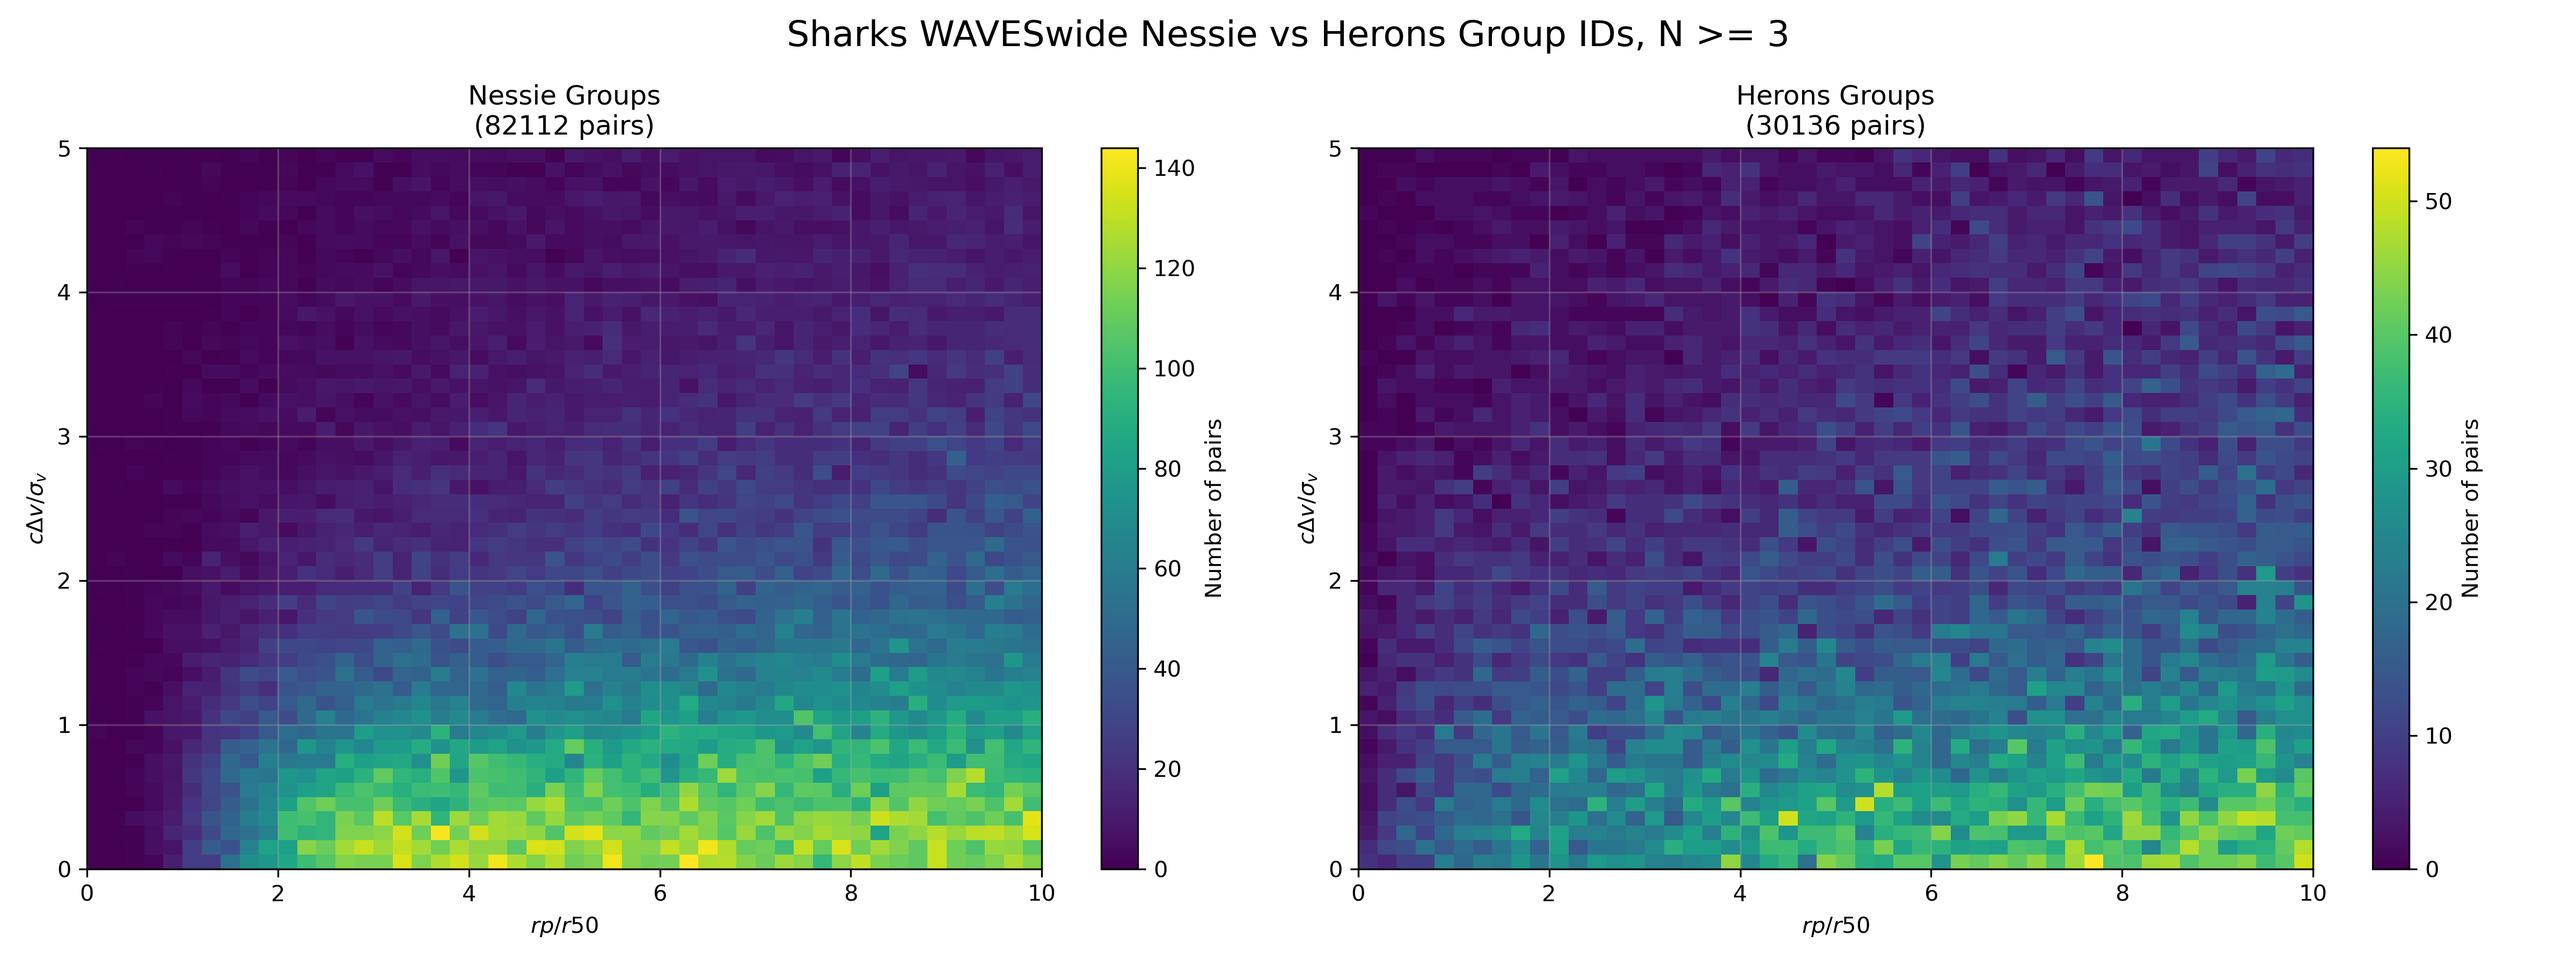
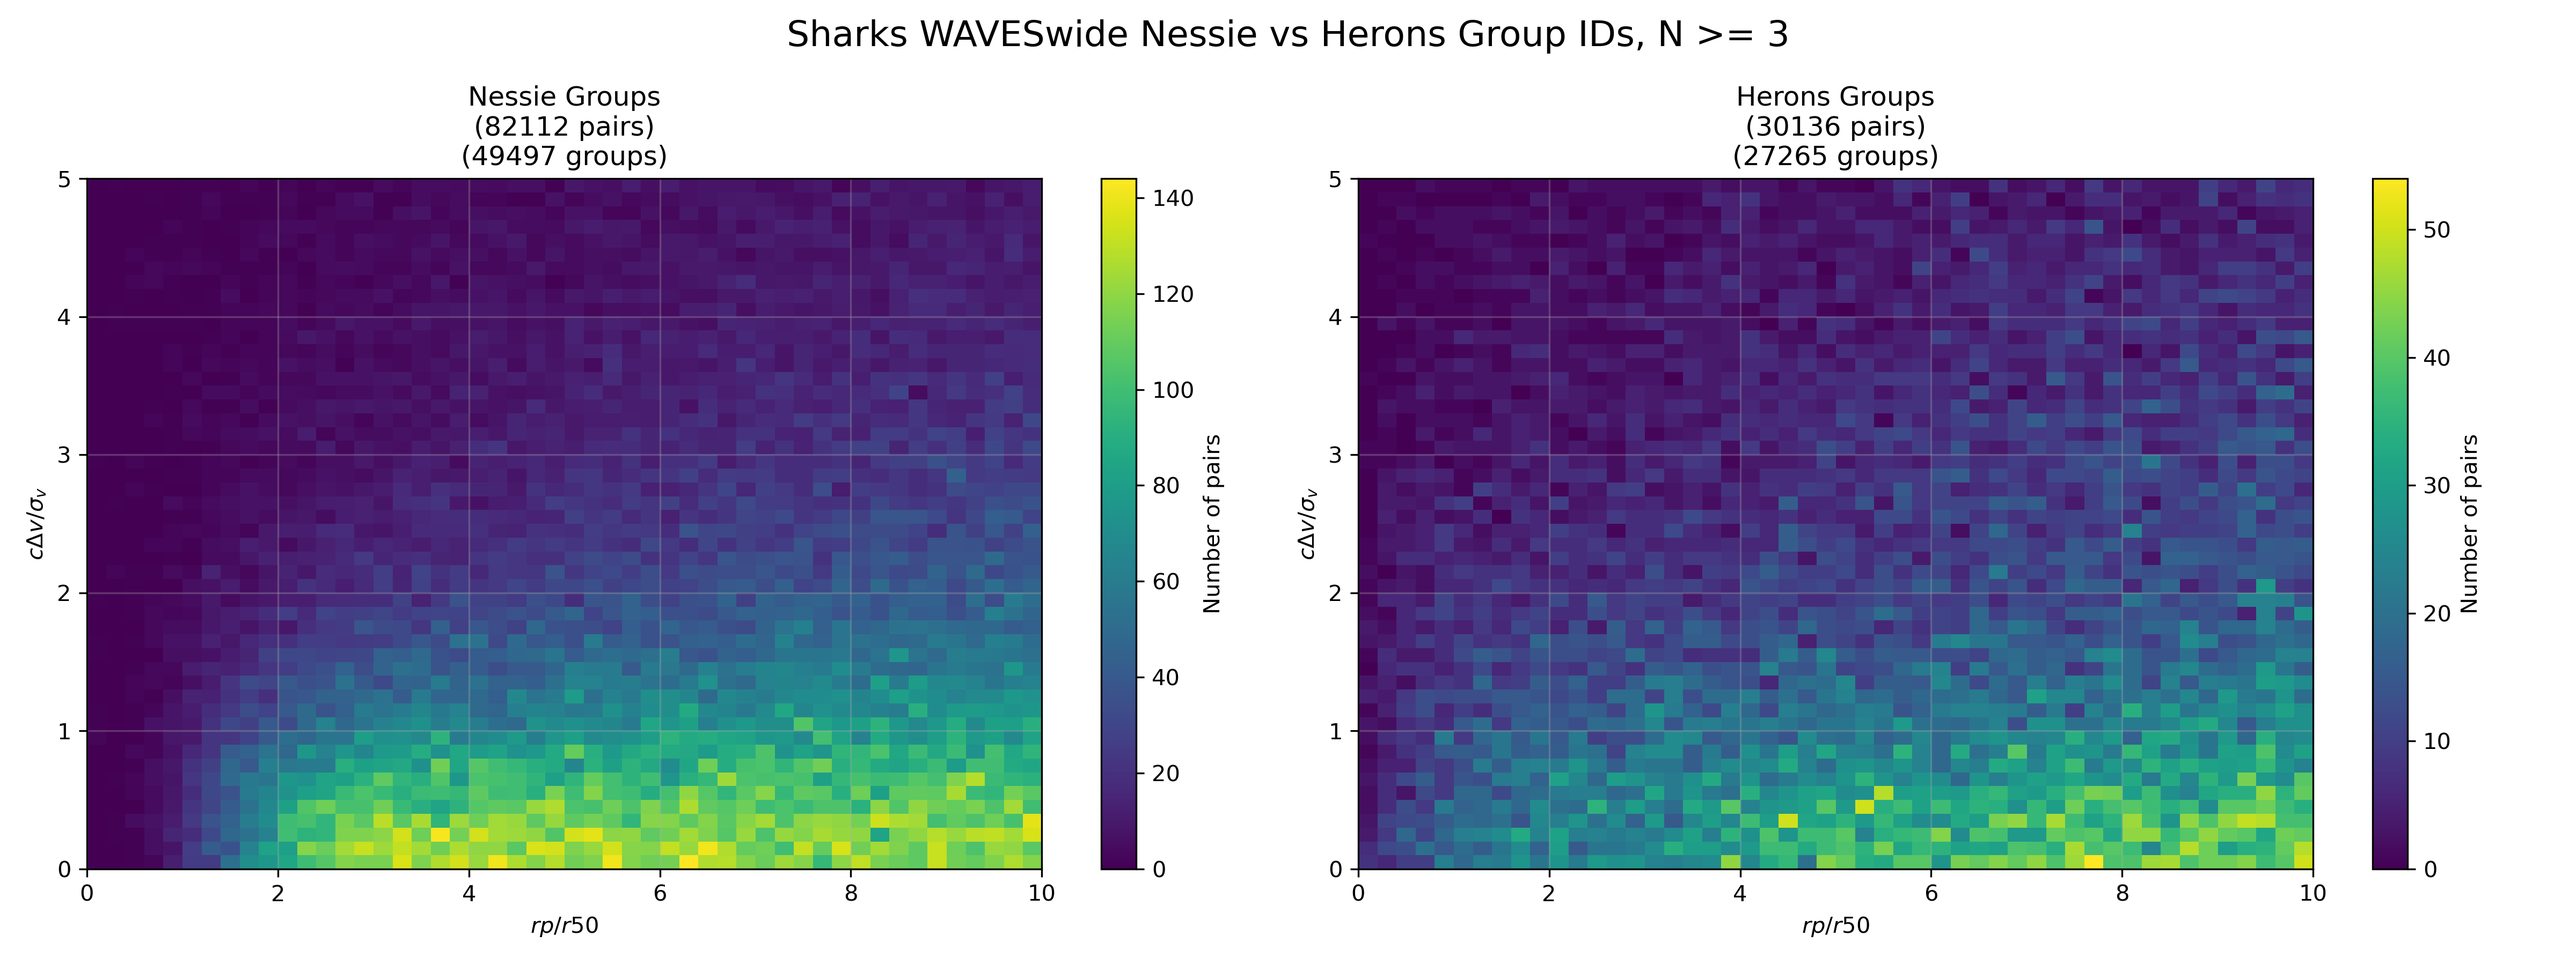
minor fixes and polish to halo sep plots

diff --git a/sim_halos/halo-separations/halo_separations.py b/sim_halos/halo-separations/halo_separations.py
@@ -223,7 +223,7 @@ class SharksCatalogHaloHaloSeparations:
 
         self.MASS_A = 10
 
-        self.min_group_members = 3
+        self.min_group_members = 2
         self.max_proj_r50 = 10
         self.max_vel_sigma = 5
 
@@ -258,6 +258,9 @@ class SharksCatalogHaloHaloSeparations:
         new_ids[mask] = mapped_values
 
         self.sharks['id_group_sky'] = new_ids
+
+        #plt.scatter(self.sharks['ra'][::1000], self.sharks['dec'][::1000], s=1, alpha=0.5)
+        #plt.show()
 
 
     def find_nessie_properties(self):
@@ -370,20 +373,22 @@ class SharksCatalogHaloHaloSeparations:
         plt.close()
 
     def plot_hists_r50_sigma(self):
+        bins_r50 = np.linspace(0, 4, 50)
         print('Plotting histograms of r50 and velocity dispersion for Nessie and Herons...')
         plt.figure(figsize=(12, 5))
 
         plt.subplot(1, 2, 1)
-        plt.hist(self.nessie_group_properties['r50'], bins=50, color='blue', alpha=0.7, log=True, label='Nessie')
-        plt.hist(self.herons_group_properties['r50'], bins=50, color='orange', alpha=0.7, log=True, label='Herons')
+        plt.hist(self.nessie_group_properties['r50'], color='blue', alpha=0.7, log=True, label='Nessie', bins = bins_r50)
+        plt.hist(self.herons_group_properties['r50'], color='orange', alpha=0.7, log=True, label='Herons', bins = bins_r50)
         plt.xlabel('r50 [Mpc/h]')
         plt.ylabel('Number of Groups')
         plt.title('Distribution of r50')
         plt.legend()
 
         plt.subplot(1, 2, 2)
-        plt.hist(self.nessie_group_properties['velocity_dispersion_gap'], bins=50, color='blue', alpha=0.7, log=True, label='Nessie')
-        plt.hist(self.herons_group_properties['velocity_dispersion_gap'], bins=50, color='orange', alpha=0.7, log=True, label='Herons')
+        bins_vel = np.linspace(0, 1500, 50)
+        plt.hist(self.nessie_group_properties['velocity_dispersion_gap'], color='blue', alpha=0.7, log=True, label='Nessie', bins = bins_vel)
+        plt.hist(self.herons_group_properties['velocity_dispersion_gap'], color='orange', alpha=0.7, log=True, label='Herons', bins = bins_vel)
         plt.xlabel('Velocity Dispersion Gap [km/s]')
         plt.ylabel('Number of Groups')
         plt.title('Distribution of Velocity Dispersion Gap')
@@ -391,6 +396,21 @@ class SharksCatalogHaloHaloSeparations:
 
         plt.tight_layout()
         plt.savefig('nessie_herons_r50_vel_disp_histograms.png', dpi=300)
+        plt.close()
+
+    def plot_halo_mass_hists(self):
+        print('Plotting histograms of MassA for Nessie and Herons...')
+        plt.figure(figsize=(8, 6))
+        bins_halo_mass = np.linspace(11, 16, 50)
+        plt.hist(np.log10(self.nessie_group_properties['MassA']), color='blue', alpha=0.7, log=True, label='Nessie', bins = bins_halo_mass)
+        plt.hist(np.log10(self.herons_group_properties['MassA']), color='orange', alpha=0.7, log=True, label='Herons', bins = bins_halo_mass)
+        plt.xlabel('MassA [M☉/h]')
+        plt.ylabel('Number of Groups')
+        plt.title(f'Distribution of MassA, N >= {self.min_group_members}')
+        plt.legend()
+
+        plt.tight_layout()
+        plt.savefig('nessie_herons_massa_histogram.png', dpi=300)
         plt.close()
 
 
@@ -533,14 +553,14 @@ class SharksCatalogHaloHaloSeparations:
         im1 = axes[0].imshow(self.h_nessie.T, origin='lower', aspect='auto',
                            extent=[0, self.max_proj_r50, 0, self.max_vel_sigma],
                            cmap='viridis')
-        axes[0].set_title(f'Nessie Groups\n({int(np.sum(self.h_nessie))} pairs)')
+        axes[0].set_title(f'Nessie Groups\n({int(np.sum(self.h_nessie))} pairs)\n({len(self.nessie_group_properties)} groups)')
         plt.colorbar(im1, ax=axes[0], label='Number of pairs')
 
         # Herons
         im2 = axes[1].imshow(self.h_herons.T, origin='lower', aspect='auto',
                            extent=[0, self.max_proj_r50, 0, self.max_vel_sigma],
                            cmap='viridis')
-        axes[1].set_title(f'Herons Groups\n({int(np.sum(self.h_herons))} pairs)')
+        axes[1].set_title(f'Herons Groups\n({int(np.sum(self.h_herons))} pairs)\n({len(self.herons_group_properties)} groups)')
         plt.colorbar(im2, ax=axes[1], label='Number of pairs')
 
         # Formatting
@@ -563,12 +583,10 @@ if __name__ == "__main__":
     halo_seps.process_data()
     halo_seps.find_nessie_properties()
     halo_seps.find_herons_properties()
-    halo_seps.plot_massa_mass_herons()
     halo_seps.make_kde_trees()
     halo_seps.populate_2d_histograms()
     halo_seps.plot_histograms()
-    halo_seps.plot_vel_disp_vs_mvir_herons()
-    halo_seps.plot_hists_r50_sigma()
-    
-
-
+    #halo_seps.plot_massa_mass_herons()
+    #halo_seps.plot_vel_disp_vs_mvir_herons()
+    #halo_seps.plot_hists_r50_sigma()
+    #halo_seps.plot_halo_mass_hists()
